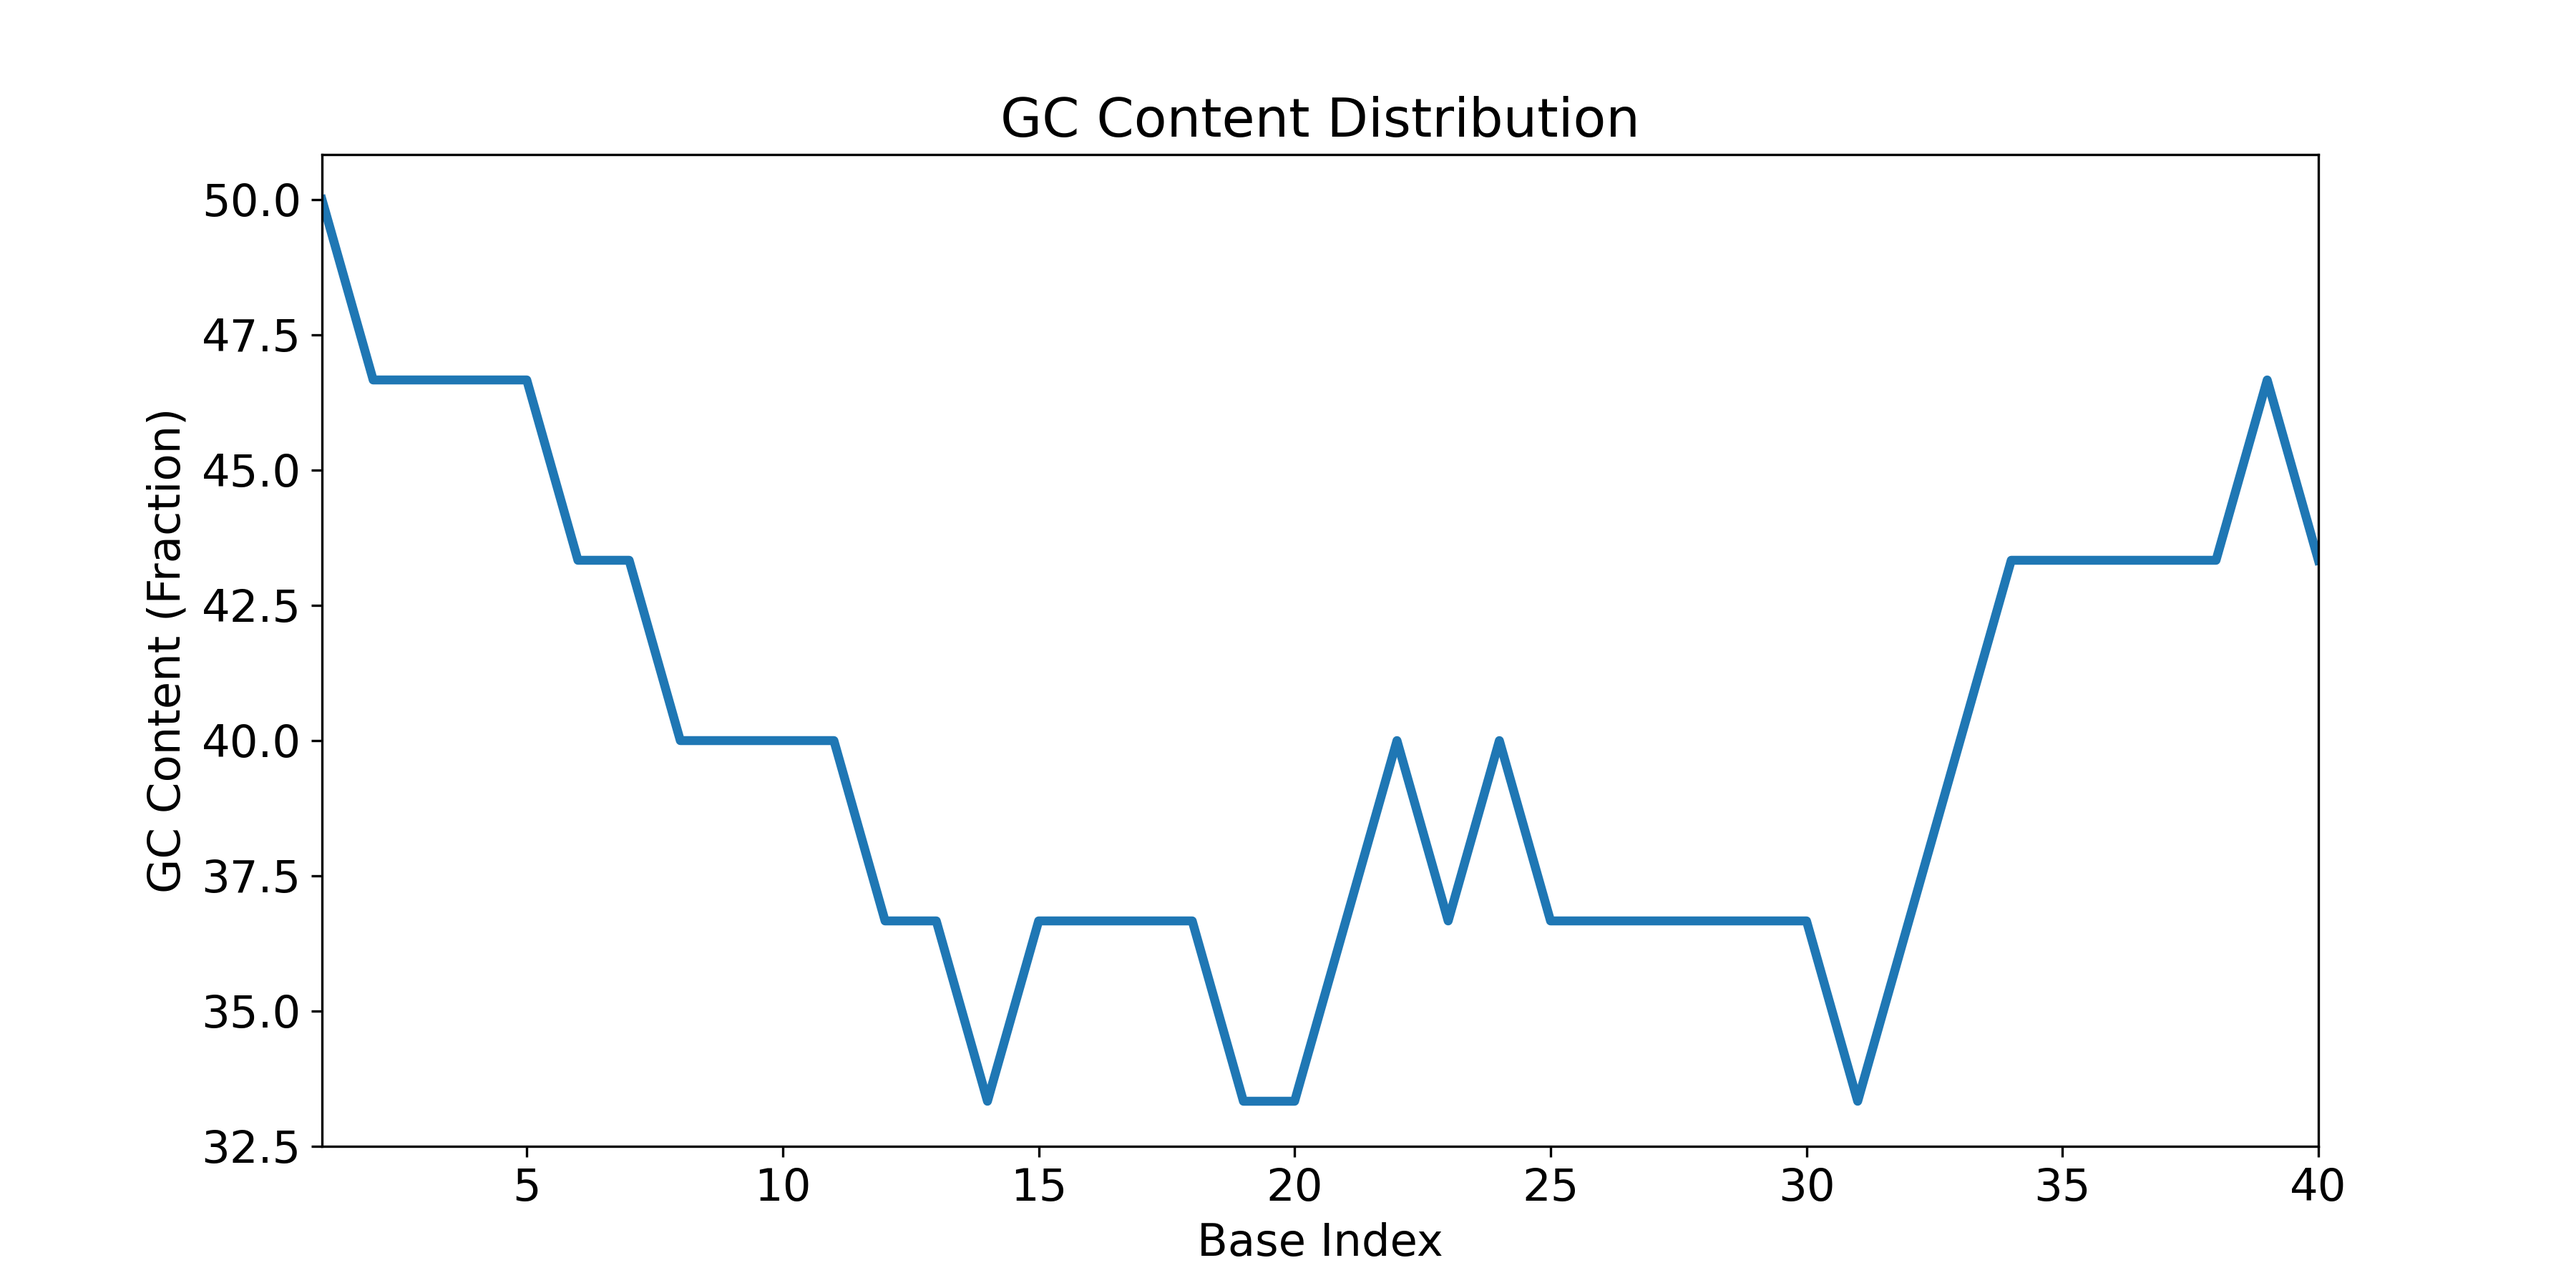
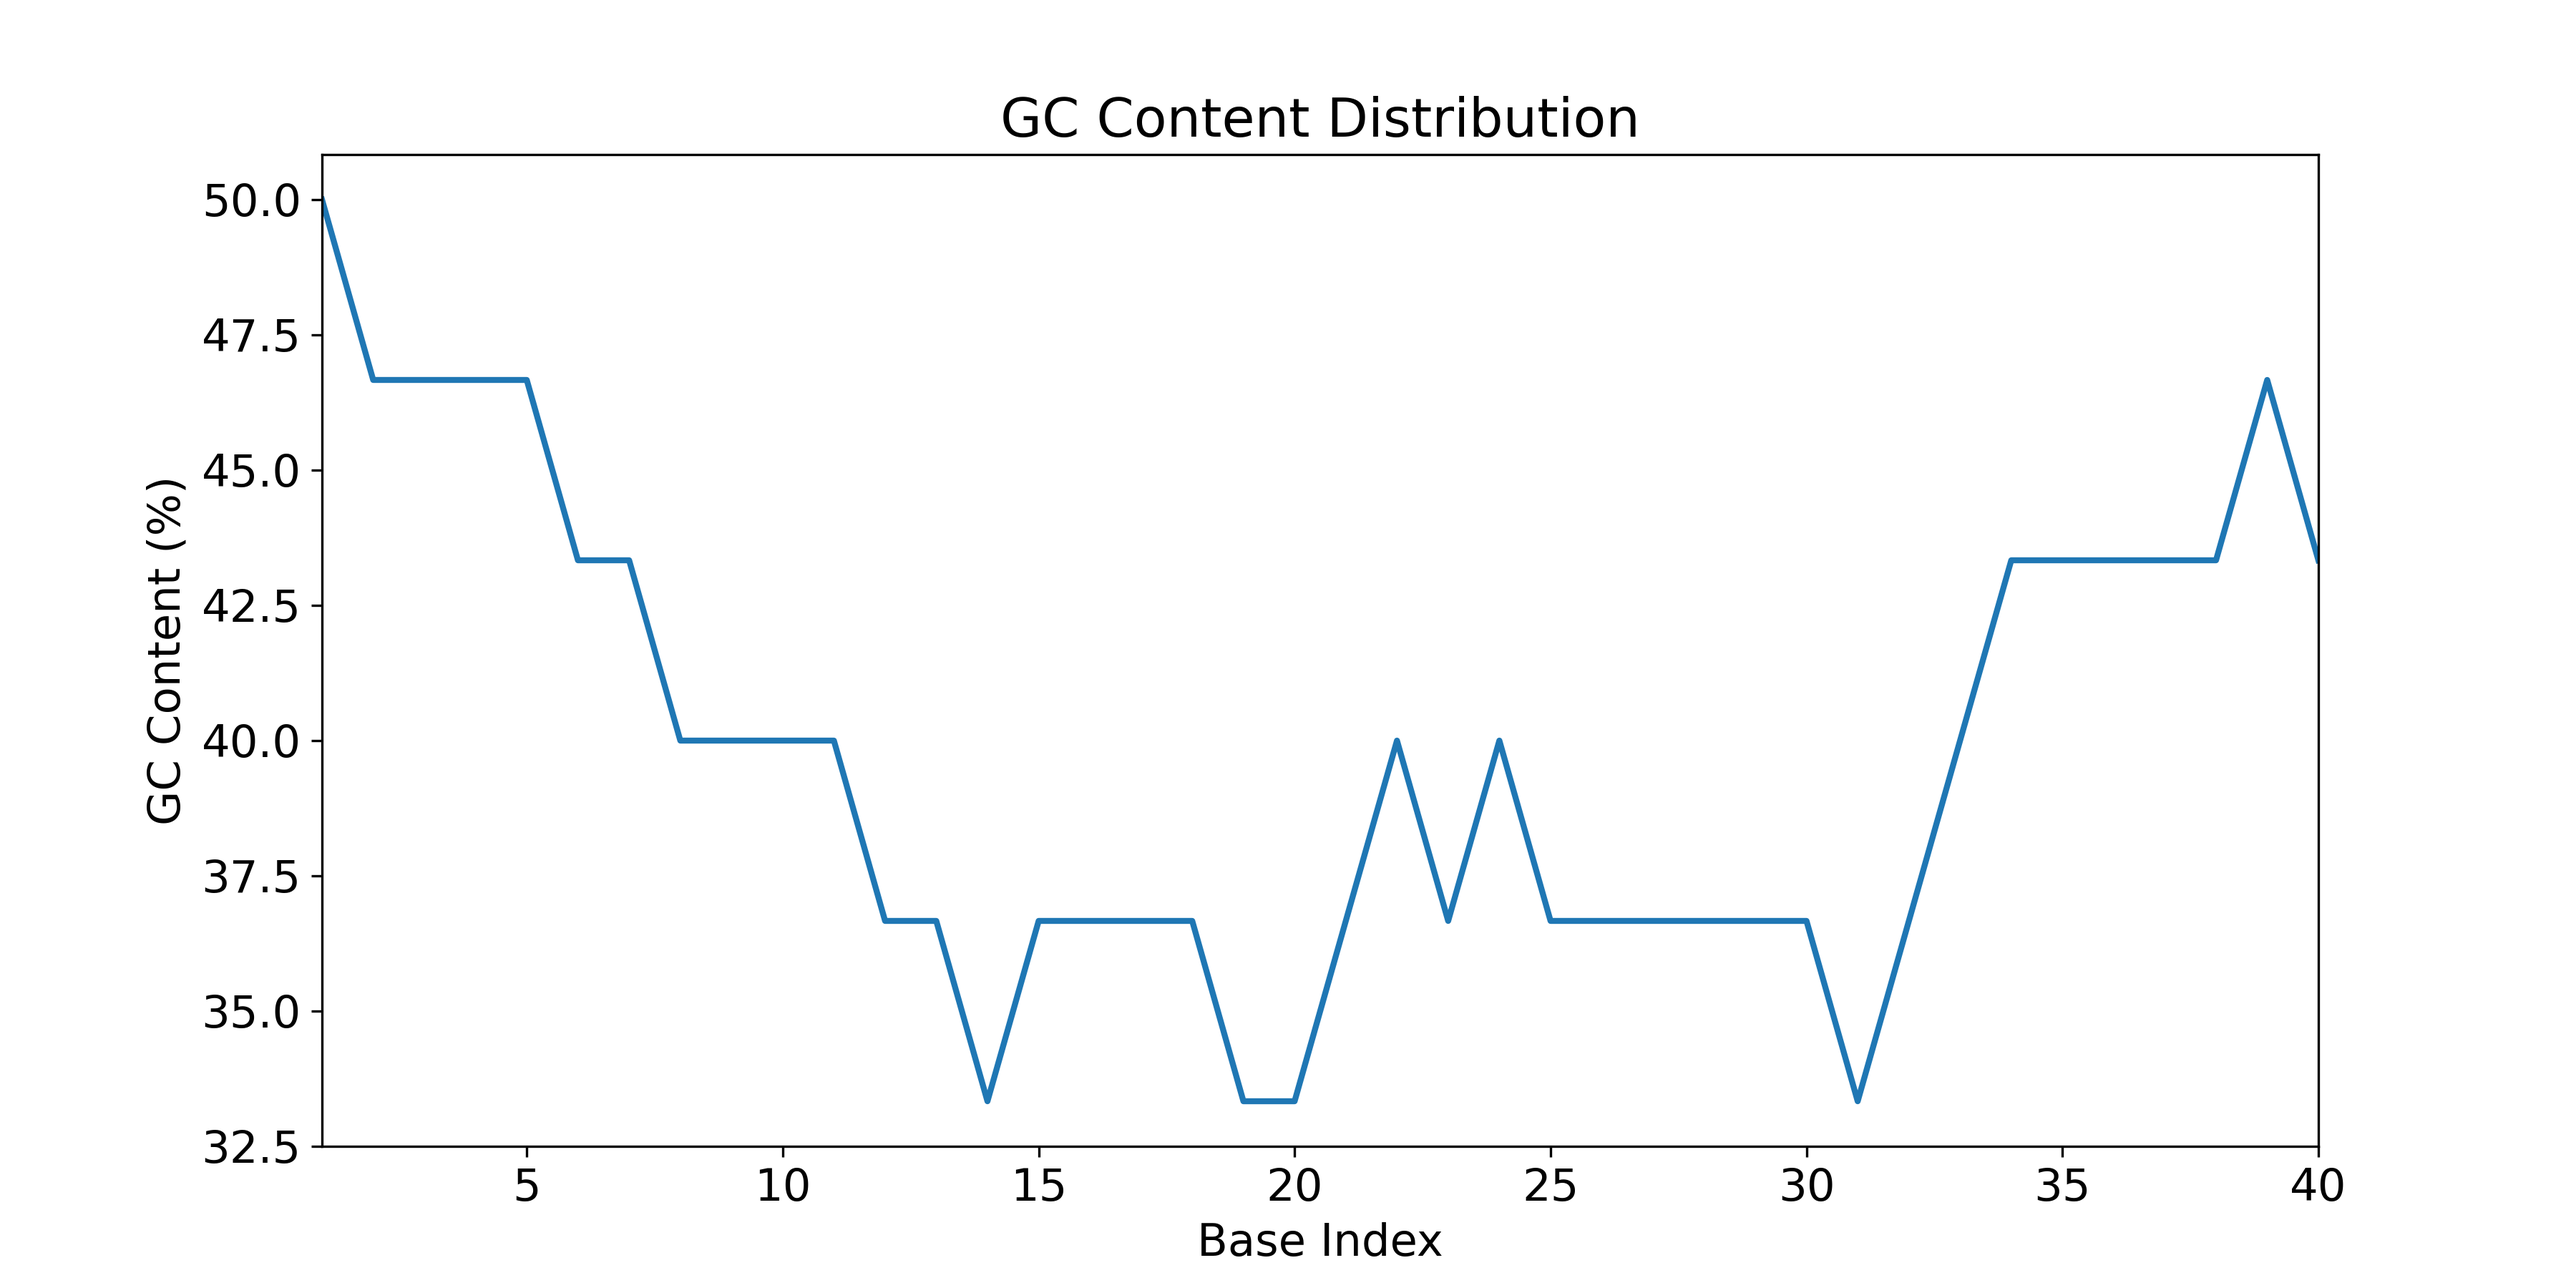
updated gc plot to also make bar plot of gc content of bp 1 and 2 vs 3 of codon

diff --git a/plotting.py b/plotting.py
@@ -44,13 +44,14 @@ def bar_count_freq(data: dict, total: int, title: str, x_label: str, output_file
     print(f"Bar chart saved to {output_filename}")
 
 """
-Generate and saves a GC content distribution line graph
+Generate and saves a GC content distribution line graph, and a bar graph to compare 
 
 :param str sequence: sequence to be analyzed & plotted
 :param int window_size: size of window around each base, >=30 and <len(sequence)
-:param str output_filename: file name for plot to be saved to
+:param str lineplot_filename: file name for line plot to be saved to
+:param str bar_filename: file name for bar graph to be saved to
 """
-def gc(sequence: str, window_size: int, output_filename: str):
+def gc(sequence: str, window_size: int, lineplot_filename: str, bar_filename: str):
     # maybe raise errors for issues with sequence length, window size
     # compute windows
     data = []
@@ -66,10 +67,35 @@ def gc(sequence: str, window_size: int, output_filename: str):
     plt.plot(x, data, linewidth=2)
     plt.xlabel('Base Index')
     plt.xlim(1, len(x))
-    plt.ylabel('GC Content (Fraction)')
+    plt.ylabel('GC Content (%)')
     plt.title('GC Content Distribution')
 
     # save figure and close plot
-    plt.savefig(output_filename, dpi=300) 
+    plt.savefig(lineplot_filename, dpi=300) 
     plt.close()
-    print(f"Line plot saved to {output_filename}")
+    print(f"Line plot saved to {lineplot_filename}")
+
+    # plotting average GC content of bp 1 and 2 vs 3 in codons
+    bp = ['1 and 2', '3']
+    gc12 = (sum(data[0::3])+sum(data[1::3])) / (len(data[0::3]) + len(data[1::3]))
+    gc3 = sum(data[2::3]) / len(data[2::3])
+
+   
+    
+    
+
+    plt.rcParams.update({'font.size': 14}) 
+    fig, ax = plt.subplots(figsize=(6, 6))
+    bars = ax.bar(bp, [gc12, gc3])
+    ax.bar_label(bars, fmt='%.2f')
+
+    ax.set_xlabel('Codon Position')
+    ax.set_ylabel('GC Content (%)')
+    ax.set_ylim(0, max(gc12, gc3) * 1.1) # add 10% headroom to bars for labels
+    ax.set_title('Average GC Content of Codon Positions')
+
+    # save figure and close plot
+    fig.savefig(bar_filename, dpi=300) 
+    plt.close()
+    print(f"Bar plot saved to {bar_filename}")
+

diff --git a/main.py b/main.py
@@ -6,7 +6,7 @@ import plotting
 
 # read file
 script_dir = os.path.dirname(os.path.abspath(__file__))
-file_name = os.path.join(script_dir, 'raw_data/gene.fna')
+file_name = os.path.join(script_dir, 'raw_data/test.fa')
 
 # open file as fasta (each line is either the name of a sequence or a sequence itself)
 names = []
@@ -59,4 +59,5 @@ with open(output_filename, 'w') as file:
 # calculating gc content and plotting it
 print(analysis.gc(seqs[0]))
 output_filename = os.path.join(plot_output_dir, f'{safe_name}_gc.png')
-plotting.gc(seqs[0], 30, output_filename)
+output2_filename = os.path.join(plot_output_dir, f'{safe_name}_gc_bp.png')
+plotting.gc(seqs[0], 30, output_filename, output2_filename)
